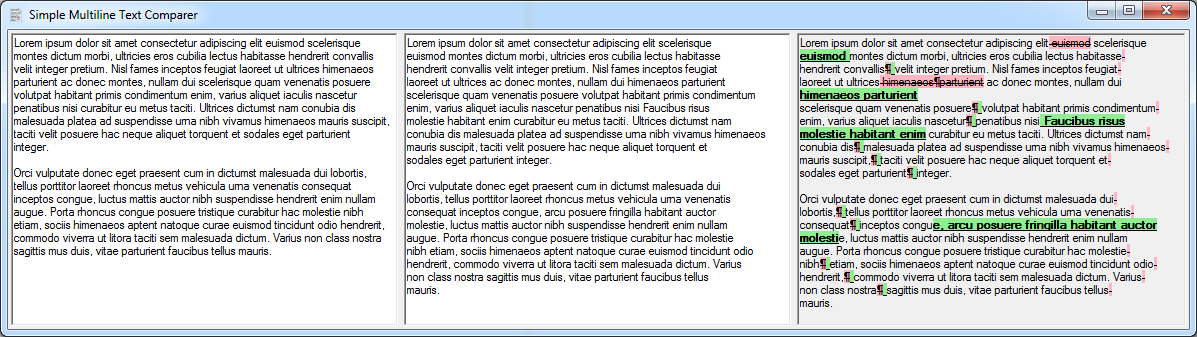
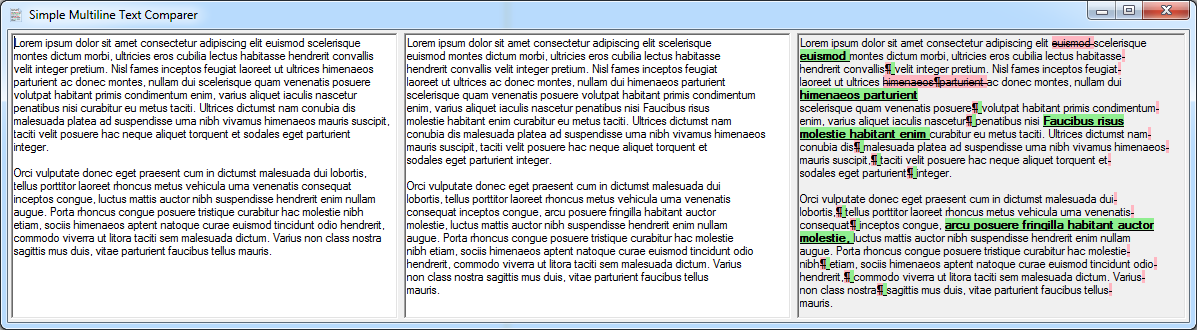
Add white space preference

diff --git a/MultilineTextDiff/LevenstheinMethod.cs b/MultilineTextDiff/LevenstheinMethod.cs
@@ -81,6 +81,16 @@ namespace Atrip.MultilineTextDiff
       set;
     } = 1;
 
+    [SuppressMessage("Microsoft.Performance", "CA1811:AvoidUncalledPrivateCode")]
+    public int WhiteSpacePreference
+    {
+      [DebuggerStepThrough]
+      get;
+
+      [DebuggerStepThrough]
+      set;
+    } = 2;
+
     public string Source
     {
       [DebuggerStepThrough]
@@ -101,12 +111,12 @@ namespace Atrip.MultilineTextDiff
 
     public List<EditOperation> GetEditSequence()
     {
-      return (ProcessEditSequence(this.Source, this.Target, this.InsertCost, this.RemoveCost, this.EditCost, this.CopyCost));
+      return (ProcessEditSequence(this.Source, this.Target, this.InsertCost, this.RemoveCost, this.EditCost, this.CopyCost, this.WhiteSpacePreference));
     }
 
     [SuppressMessage("Microsoft.Performance", "CA1814:PreferJaggedArraysOverMultidimensional", MessageId = "Body", Justification = "Better code readability")]
     private static List<EditOperation> ProcessEditSequence(string source, string target,
-      int insertCost, int removeCost, int editCost, int copyCost)
+      int insertCost, int removeCost, int editCost, int copyCost, int whiteSpacePreference)
     {
       // Forward: building score matrix
 
@@ -133,13 +143,22 @@ namespace Atrip.MultilineTextDiff
       // fill the cost and operation table
       for (int i = 1; i <= source.Length; i++)
       {
+        char sourceCharacter = source[i - 1];
         for (int j = 1; j <= target.Length; j++)
         {
           // here we choose the operation with the least cost
-          bool copy = (source[i - 1] == target[j - 1]);
+          char targetCharacter = target[j - 1];
+          bool copy = (sourceCharacter == targetCharacter);
           int insert = pathCost[i, j - 1] + insertCost;
           int remove = pathCost[i - 1, j] + removeCost;
           int edit = pathCost[i - 1, j - 1] + ((copy) ? (copyCost) : (editCost));
+
+          if ((!char.IsWhiteSpace(sourceCharacter)) && (!char.IsWhiteSpace(targetCharacter)) && !copy)
+          {
+            insert *= whiteSpacePreference;
+            remove *= whiteSpacePreference;
+            edit *= whiteSpacePreference;
+          }
 
           int min = Math.Min(Math.Min(insert, remove), edit);
 

diff --git a/MultilineTextDiff/Properties/AssemblyInfo.cs b/MultilineTextDiff/Properties/AssemblyInfo.cs
@@ -35,7 +35,7 @@ using System.Runtime.InteropServices;
 // You can specify all the values or you can default the Build and Revision Numbers
 // by using the '*' as shown below:
 // [assembly: AssemblyVersion("1.0.*")]
-[assembly: AssemblyVersion("0.1.0.0")]
-[assembly: AssemblyFileVersion("0.1.0.0")]
+[assembly: AssemblyVersion("0.1.0.2")]
+[assembly: AssemblyFileVersion("0.1.0.2")]
 [assembly: NeutralResourcesLanguage("en-GB")]
 
